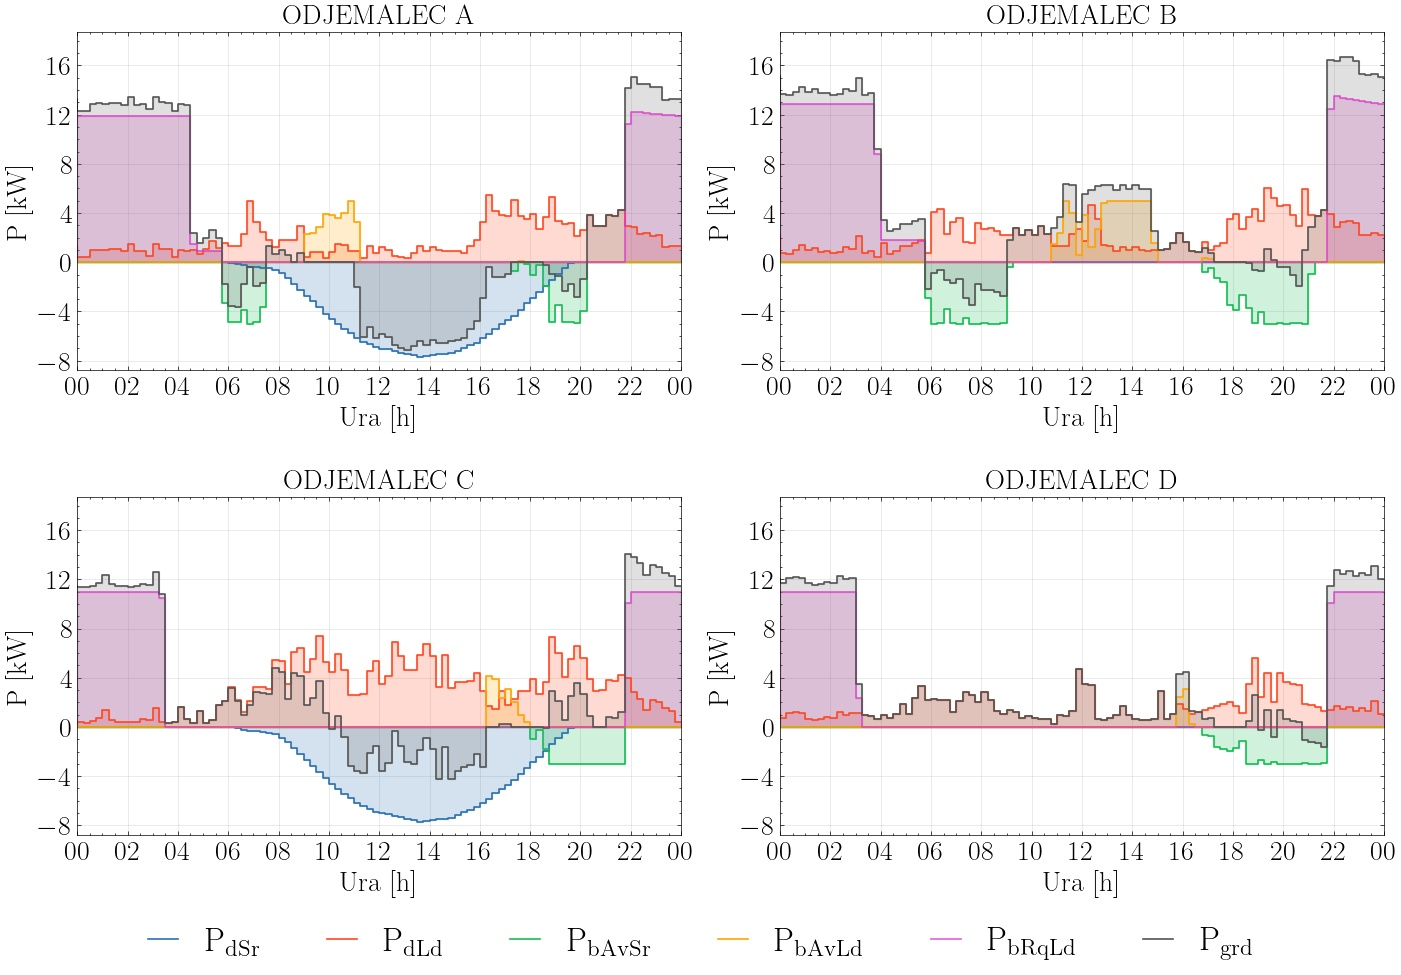
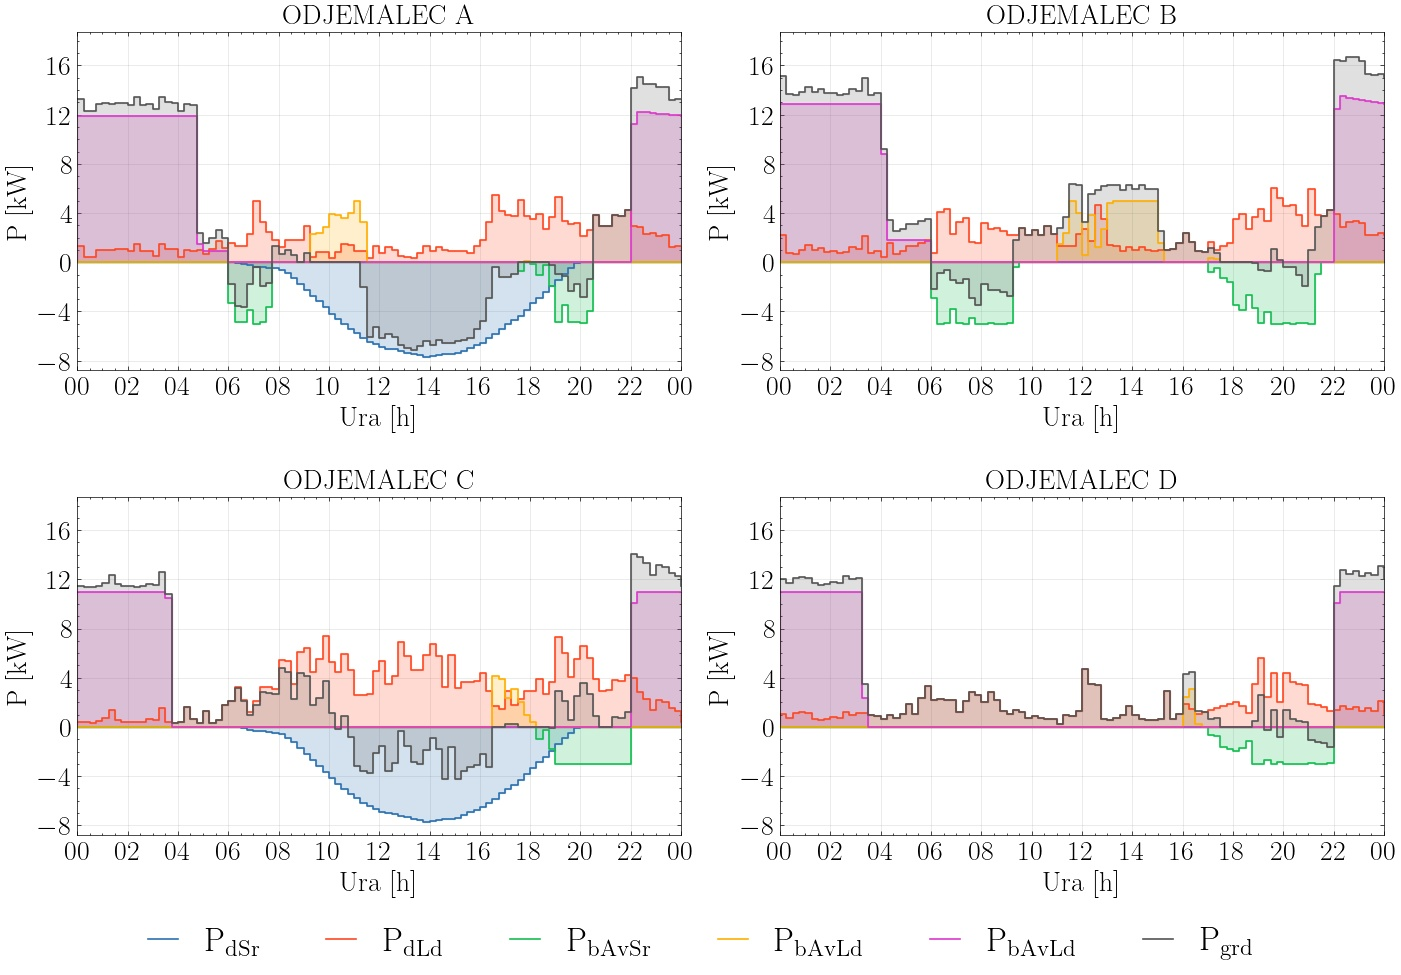
s

diff --git a/SimulatorUser/ExportData/dd.py b/SimulatorUser/ExportData/dd.py
@@ -134,7 +134,7 @@ def drawingPriceGraph4Users(FileDirecotoryUserData, TestNumber, DatetTimeTest, A
 
         plt.savefig("Test "+str(TestNumber)+" Price.jpg", format="jpg")
 
-        #plt.show()
+        plt.show()
 
 
 def drawingPowerGraph4Users(FileDirecotoryUserData, TestNumber, DatetTimeTest, ArrUserNumber):
@@ -189,7 +189,7 @@ def drawingPowerGraph4Users(FileDirecotoryUserData, TestNumber, DatetTimeTest, A
 
         plt.savefig("Test "+str(TestNumber)+" Energy4User.jpg", format="jpg")
 
-        #plt.show()
+        plt.show()
 
         
 def drawingPowerSystemGraph(FileDirecotoryUserData, TestNumber, DatetTimeTest, ArrUserNumber):
@@ -199,7 +199,7 @@ def drawingPowerSystemGraph(FileDirecotoryUserData, TestNumber, DatetTimeTest, A
     PowerLow=0
     PowerHigh=0
     
-    for q in range (1):
+    for q in range (NumberOfUser):
 
         UserNumber=ArrUserNumber[q]
         UserData=readUserPowerData(FileDirecotoryUserData, TestNumber, DatetTimeTest,UserNumber)
@@ -255,24 +255,24 @@ def drawingPowerGraph(axs,UserData,PowerLow,PowerHigh,fntSize):
 
 
     axs.fill_between(UserData[0],UserData[3], step="post", color="#2C71B0",alpha=0.20)
-    axs.step(UserData[0],UserData[3],label='pre', color="#2C71B0", alpha=1,linewidth=1.2)
+    axs.plot(UserData[0],UserData[3],drawstyle="steps-post", color="#2C71B0", alpha=1,linewidth=1.2,label=(r'$\mathrm{P_{dSr}}$'))
 
-    #axs.fill_between(UserData[0],UserData[4], step="post", color="#FF4822",alpha=0.20)
-    #axs.plot(UserData[0],UserData[4],drawstyle="steps",color="#FF4822",alpha=1,linewidth=1.2,label=(r'$\mathrm{P_{dLd}}$'))
+    axs.fill_between(UserData[0],UserData[4], step="post", color="#FF4822",alpha=0.20)
+    axs.plot(UserData[0],UserData[4],drawstyle="steps-post", color="#FF4822", alpha=1,linewidth=1.2,label=(r'$\mathrm{P_{dLd}}$'))
 
-    #axs.fill_between(UserData[0],UserData[5], step="post", color="#14be53",alpha=0.20)
-    #axs.plot(UserData[0],UserData[5],drawstyle="steps", color="#14be53", alpha=1,linewidth=1.2,label=(r'$\mathrm{P_{bAvSr}}$'))
+    axs.fill_between(UserData[0],UserData[5], step="post", color="#14be53",alpha=0.20)
+    axs.plot(UserData[0],UserData[5],drawstyle="steps-post", color="#14be53", alpha=1,linewidth=1.2,label=(r'$\mathrm{P_{bAvSr}}$'))
 
-    #axs.fill_between(UserData[0],UserData[6], step="post", color="orange", alpha=0.20)
-    #axs.plot(UserData[0],UserData[6],drawstyle="steps", color="orange",alpha=1,linewidth=1.2,label=(r'$\mathrm{P_{bAvLd}}$'))
+    axs.fill_between(UserData[0],UserData[6], step="post", color="#ffaf00",alpha=0.20)
+    axs.plot(UserData[0],UserData[6],drawstyle="steps-post", color="#ffaf00", alpha=1,linewidth=1.2,label=(r'$\mathrm{P_{bAvLd}}$'))
 
-    #axs.fill_between(UserData[0],UserData[7], step="post",color="#dd37cc", alpha=0.20)
-    #axs.plot(UserData[0],UserData[7],drawstyle="steps", step="post", color="#dd37cc" , alpha=0.8,linewidth=1.2,label=(r'$\mathrm{P_{bRqLd}}$'))
+    axs.fill_between(UserData[0],UserData[7], step="post",color="#dd37cc", alpha=0.20)
+    axs.plot(UserData[0],UserData[7],drawstyle="steps-post", color="#dd37cc", alpha=1,linewidth=1.2,label=(r'$\mathrm{P_{bAvLd}}$'))
 
     Pgrd=np.add(UserData[1],UserData[2])
 
-    #axs.fill_between(UserData[0],Pgrd, step="post",color="#555555", alpha=0.18)
-    #axs.plot(UserData[0],Pgrd, drawstyle="steps",color="#555555", alpha=1,linewidth=1.2,label=(r'$\mathrm{P_{grd}}$'))
+    axs.fill_between(UserData[0],Pgrd, step="post",color="#555555", alpha=0.18)
+    axs.plot(UserData[0],Pgrd, drawstyle="steps-post",color="#555555", alpha=1,linewidth=1.2,label=(r'$\mathrm{P_{grd}}$'))
     
     axs.set_xlim(UserData[0][0],UserData[0][len(UserData[0])-1])
 
@@ -300,7 +300,7 @@ def drawingPowerGraph(axs,UserData,PowerLow,PowerHigh,fntSize):
 def drawingPriceGraph(axs,UserData,PowerLow,PowerHigh,fntSize):
 
     axs.plot(UserData[0],[0]*len(UserData[0]),color="black",drawstyle="steps",linewidth=0.5)
-    axs.plot(UserData[0],UserData[1],drawstyle="steps", color="blue" , alpha=0.8,linewidth=1.2,label='Cena AGR')
+    axs.plot(UserData[0],UserData[1],drawstyle="steps-post", color="blue" , alpha=0.8,linewidth=1.2,label='Cena AGR')
     
 
     axs.xaxis.set_major_formatter(mdates.DateFormatter('%H'))
@@ -396,7 +396,7 @@ def drawingSOCGraaph(FileDirecotoryUserData, TestNumber, DatetTimeTest, ArrUserN
         plt.rcParams["font.serif"] = "Times New Roman"
 
         plt.savefig("Test "+str(TestNumber)+" SOC.jpg", format="jpg")
-        #plt.show()
+        plt.show()
 
 
 
